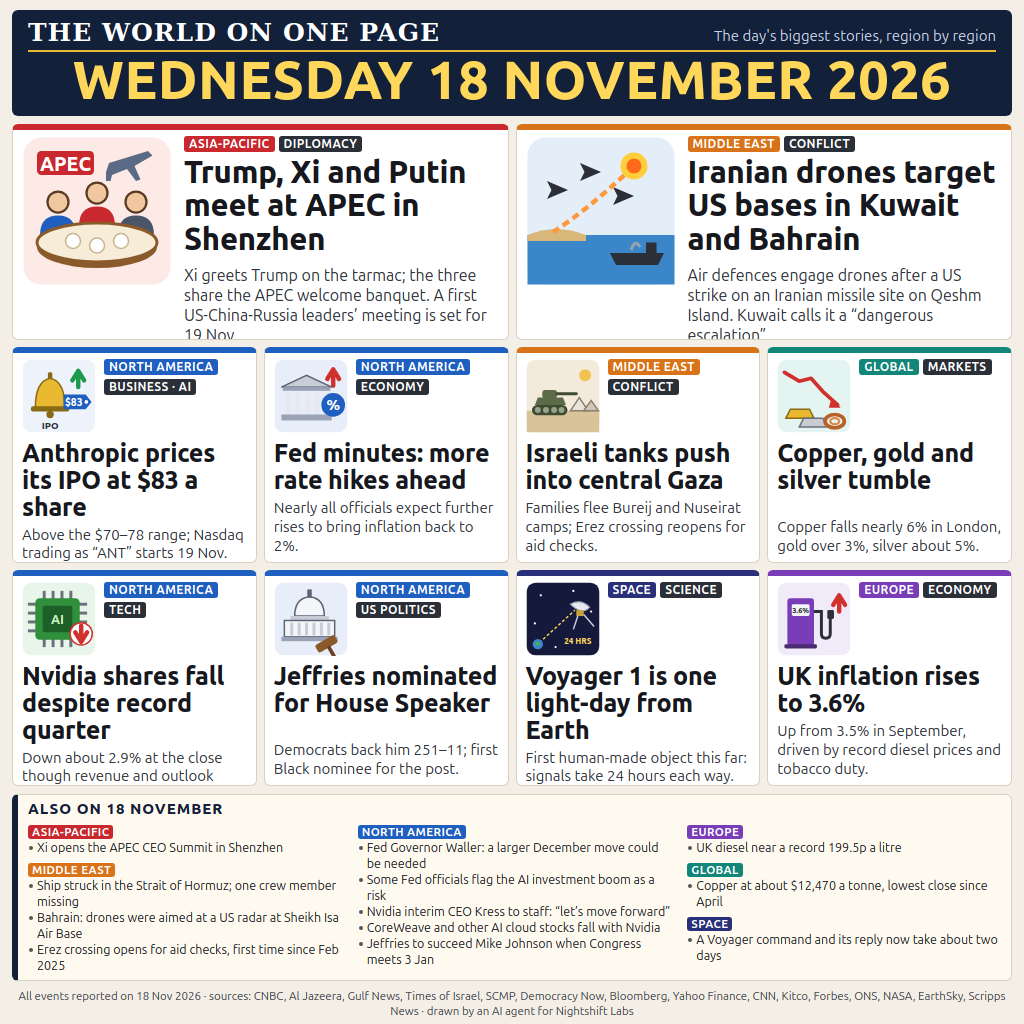
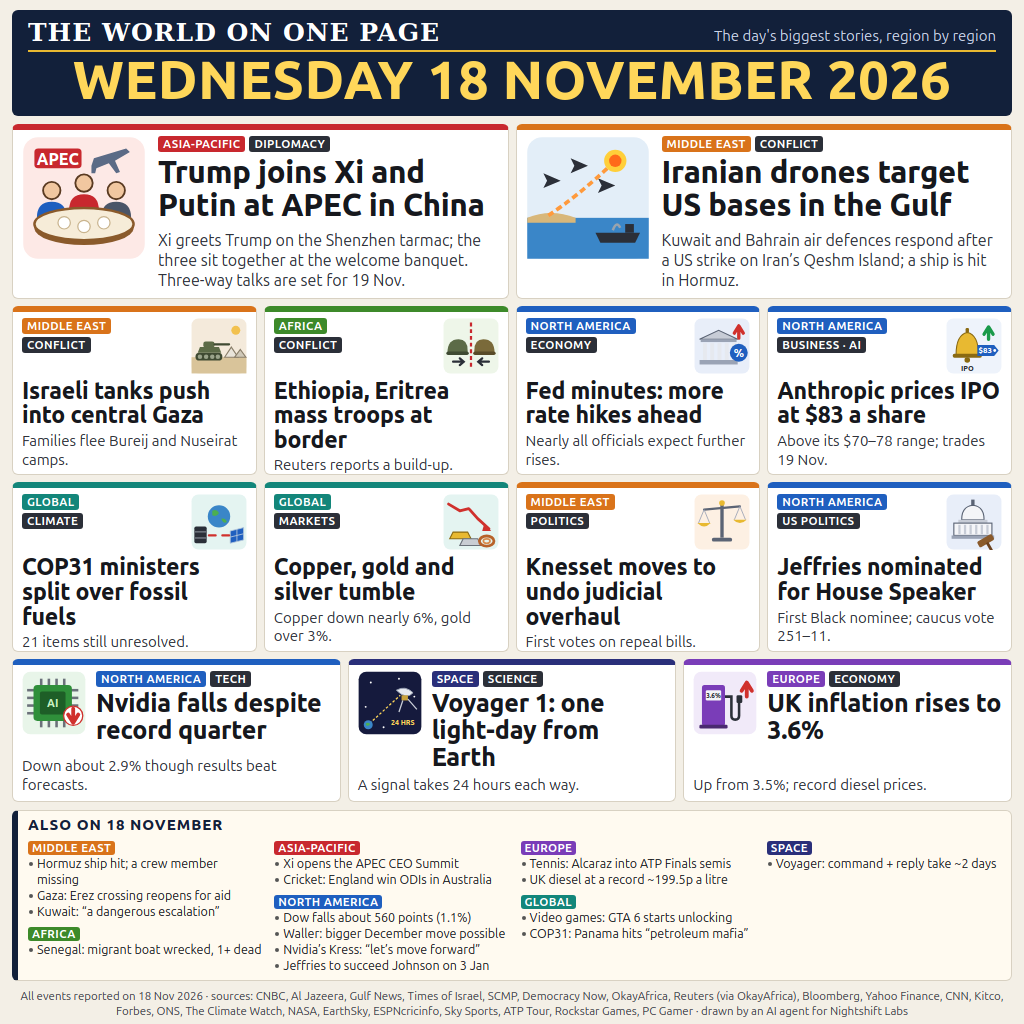
13 story cards from all three story files, compact card layout, Also band in 4 columns

diff --git a/page/stories.js b/page/stories.js
@@ -7,68 +7,80 @@ const REGION = {
   global: { name: 'GLOBAL',        c: '#13867a' },
   space:  { name: 'SPACE',         c: '#2a2f7a' },
   africa: { name: 'AFRICA',        c: '#3d8a2a' },
-  latam:  { name: 'LATIN AMERICA', c: '#c2347e' },
-  sasia:  { name: 'SOUTH ASIA',    c: '#b8860b' },
 };
 
 const CARDS = [
   { lead: true, r: 'asia', f: 'DIPLOMACY', icon: 'summit',
-    hl: 'Trump, Xi and Putin meet at APEC in Shenzhen',
-    fact: 'Xi greets Trump on the tarmac; the three share the APEC welcome banquet. A first US-China-Russia leaders’ meeting is set for 19 Nov.' },
+    hl: 'Trump joins Xi and Putin at APEC in China',
+    fact: 'Xi greets Trump on the Shenzhen tarmac; the three sit together at the welcome banquet. Three-way talks are set for 19 Nov.' },
   { lead: true, r: 'mideast', f: 'CONFLICT', icon: 'drones',
-    hl: 'Iranian drones target US bases in Kuwait and Bahrain',
-    fact: 'Air defences engage drones after a US strike on an Iranian missile site on Qeshm Island. Kuwait calls it a “dangerous escalation”.' },
-  { r: 'namer', f: 'BUSINESS · AI', icon: 'ipo',
-    hl: 'Anthropic prices its IPO at $83 a share',
-    fact: 'Above the $70–78 range; Nasdaq trading as “ANT” starts 19 Nov.' },
-  { r: 'namer', f: 'ECONOMY', icon: 'fed',
-    hl: 'Fed minutes: more rate hikes ahead',
-    fact: 'Nearly all officials expect further rises to bring inflation back to 2%.' },
+    hl: 'Iranian drones target US bases in the Gulf',
+    fact: 'Kuwait and Bahrain air defences respond after a US strike on Iran\u2019s Qeshm Island; a ship is hit in Hormuz.' },
   { r: 'mideast', f: 'CONFLICT', icon: 'tank',
     hl: 'Israeli tanks push into central Gaza',
-    fact: 'Families flee Bureij and Nuseirat camps; Erez crossing reopens for aid checks.' },
+    fact: 'Families flee Bureij and Nuseirat camps.' },
+  { r: 'africa', f: 'CONFLICT', icon: 'border',
+    hl: 'Ethiopia, Eritrea mass troops at border',
+    fact: 'Reuters reports a build-up.' },
+  { r: 'namer', f: 'ECONOMY', icon: 'fed',
+    hl: 'Fed minutes: more rate hikes ahead',
+    fact: 'Nearly all officials expect further rises.' },
+  { r: 'namer', f: 'BUSINESS · AI', icon: 'ipo',
+    hl: 'Anthropic prices IPO at $83 a share',
+    fact: 'Above its $70–78 range; trades 19 Nov.' },
+  { r: 'global', f: 'CLIMATE', icon: 'cop',
+    hl: 'COP31 ministers split over fossil fuels',
+    fact: '21 items still unresolved.' },
   { r: 'global', f: 'MARKETS', icon: 'metals',
     hl: 'Copper, gold and silver tumble',
-    fact: 'Copper falls nearly 6% in London, gold over 3%, silver about 5%.' },
-  { r: 'namer', f: 'TECH', icon: 'chip',
-    hl: 'Nvidia shares fall despite record quarter',
-    fact: 'Down about 2.9% at the close though revenue and outlook beat forecasts.' },
+    fact: 'Copper down nearly 6%, gold over 3%.' },
+  { r: 'mideast', f: 'POLITICS', icon: 'scales',
+    hl: 'Knesset moves to undo judicial overhaul',
+    fact: 'First votes on repeal bills.' },
   { r: 'namer', f: 'US POLITICS', icon: 'capitol',
     hl: 'Jeffries nominated for House Speaker',
-    fact: 'Democrats back him 251–11; first Black nominee for the post.' },
-  { r: 'space', f: 'SCIENCE', icon: 'voyager',
-    hl: 'Voyager 1 is one light-day from Earth',
-    fact: 'First human-made object this far: signals take 24 hours each way.' },
-  { r: 'europe', f: 'ECONOMY', icon: 'pump',
+    fact: 'First Black nominee; caucus vote 251–11.' },
+  { r: 'namer', f: 'TECH', icon: 'chip', wide: true,
+    hl: 'Nvidia falls despite record quarter',
+    fact: 'Down about 2.9% though results beat forecasts.' },
+  { r: 'space', f: 'SCIENCE', icon: 'voyager', wide: true,
+    hl: 'Voyager 1: one light-day from Earth',
+    fact: 'A signal takes 24 hours each way.' },
+  { r: 'europe', f: 'ECONOMY', icon: 'pump', wide: true,
     hl: 'UK inflation rises to 3.6%',
-    fact: 'Up from 3.5% in September, driven by record diesel prices and tobacco duty.' },
+    fact: 'Up from 3.5%; record diesel prices.' },
 ];
 
 const ALSO = [
-  { r: 'asia', items: [
-    'Xi opens the APEC CEO Summit in Shenzhen',
-  ]},
   { r: 'mideast', items: [
-    'Ship struck in the Strait of Hormuz; one crew member missing',
-    'Bahrain: drones were aimed at a US radar at Sheikh Isa Air Base',
-    'Erez crossing opens for aid checks, first time since Feb 2025',
+    'Hormuz ship hit; a crew member missing',
+    'Gaza: Erez crossing reopens for aid',
+    'Kuwait: \u201ca dangerous escalation\u201d',
+  ]},
+  { r: 'africa', items: [
+    'Senegal: migrant boat wrecked, 1+ dead',
+  ]},
+  { r: 'asia', items: [
+    'Xi opens the APEC CEO Summit',
+    'Cricket: England win ODIs in Australia',
   ]},
   { r: 'namer', items: [
-    'Fed Governor Waller: a larger December move could be needed',
-    'Some Fed officials flag the AI investment boom as a risk',
-    'Nvidia interim CEO Kress to staff: “let’s move forward”',
-    'CoreWeave and other AI cloud stocks fall with Nvidia',
-    'Jeffries to succeed Mike Johnson when Congress meets 3 Jan',
+    'Dow falls about 560 points (1.1%)',
+    'Waller: bigger December move possible',
+    'Nvidia\u2019s Kress: \u201clet\u2019s move forward\u201d',
+    'Jeffries to succeed Johnson on 3 Jan',
   ]},
   { r: 'europe', items: [
-    'UK diesel near a record 199.5p a litre',
+    'Tennis: Alcaraz into ATP Finals semis',
+    'UK diesel at a record ~199.5p a litre',
   ]},
   { r: 'global', items: [
-    'Copper at about $12,470 a tonne, lowest close since April',
+    'Video games: GTA 6 starts unlocking',
+    'COP31: Panama hits \u201cpetroleum mafia\u201d',
   ]},
   { r: 'space', items: [
-    'A Voyager command and its reply now take about two days',
+    'Voyager: command + reply take ~2 days',
   ]},
 ];
 
-const SOURCES = 'CNBC, Al Jazeera, Gulf News, Times of Israel, SCMP, Democracy Now, Bloomberg, Yahoo Finance, CNN, Kitco, Forbes, ONS, NASA, EarthSky, Scripps News';
+const SOURCES = 'CNBC, Al Jazeera, Gulf News, Times of Israel, SCMP, Democracy Now, OkayAfrica, Reuters (via OkayAfrica), Bloomberg, Yahoo Finance, CNN, Kitco, Forbes, ONS, The Climate Watch, NASA, EarthSky, ESPNcricinfo, Sky Sports, ATP Tour, Rockstar Games, PC Gamer';

diff --git a/page/style.css b/page/style.css
@@ -15,20 +15,31 @@ body {
 .date { font-weight: 800; font-size: 54px; line-height: 1.08; letter-spacing: 0.5px; text-align: center; color: #ffd75a; white-space: nowrap; }
 
 /* cards */
-#cards { flex: 1; display: grid; grid-template-columns: repeat(12, 1fr); gap: 7px; min-height: 0; }
+#cards { flex: 1; display: grid; grid-template-columns: repeat(12, 1fr); grid-template-rows: auto 1fr 1fr auto; gap: 7px; min-height: 0; }
 .card { background: #fff; border-radius: 6px; border: 1px solid #d8d1c2; border-top: 6px solid var(--c); padding: 6px 9px 7px; display: flex; flex-direction: column; overflow: hidden; }
 .card.lead { grid-column: span 6; flex-direction: row; gap: 12px; }
-.card.std { grid-column: span 3; }
+.card.std { grid-column: span 3; display: grid; grid-template-columns: 1fr 56px; grid-template-rows: auto auto 1fr; column-gap: 6px; }
+.card.std.wide { grid-column: span 4; grid-template-columns: 64px 1fr; grid-template-rows: auto auto 1fr; column-gap: 10px; }
 .card .ic { flex: none; }
-.card.lead .ic svg { width: 150px; height: 150px; }
-.card.std .top { display: flex; gap: 8px; align-items: flex-start; }
-.card.std .ic svg { width: 74px; height: 74px; }
-.tag { display: inline-block; font-size: 12px; font-weight: 700; letter-spacing: 0.4px; color: #fff; background: var(--c); border-radius: 3px; padding: 1px 5px; margin-bottom: 4px; white-space: nowrap; }
+.card.lead .ic svg { width: 124px; height: 124px; }
+.card.std .ic { grid-row: 1; grid-column: 2; }
+.card.std .ic svg { width: 56px; height: 56px; }
+.card.std .tags { grid-column: 1; grid-row: 1; flex-direction: column; align-items: flex-start; }
+.card.std .tags .tag { margin-bottom: 3px; }
+.card.std .hl { grid-column: 1 / 3; grid-row: 2; }
+.card.std .fact { grid-column: 1 / 3; grid-row: 3; }
+.card.std.wide .ic { grid-column: 1; grid-row: 1 / 3; }
+.card.std.wide .ic svg { width: 64px; height: 64px; }
+.card.std.wide .tags { grid-column: 2; flex-direction: row; gap: 0 4px; }
+.card.std.wide .hl { grid-column: 2; }
+.card.std.wide .fact { grid-column: 1 / 3; }
+.tag { display: inline-block; font-size: 11.5px; font-weight: 700; letter-spacing: 0.4px; color: #fff; background: var(--c); border-radius: 3px; padding: 1px 5px; margin-bottom: 4px; white-space: nowrap; }
 .tag.f { background: #2b2f38; }
 .tags { display: flex; flex-wrap: wrap; gap: 0 4px; }
 .hl { font-weight: 800; line-height: 1.07; letter-spacing: -0.2px; }
-.card.lead .hl { font-size: 31px; margin-bottom: 6px; }
-.card.std .hl { font-size: 25px; margin-top: 4px; }
+.card.lead .hl { font-size: 31px; margin-bottom: 4px; }
+.card.std .hl { font-size: 23px; margin-top: 1px; }
+.card.std.wide .hl { font-size: 25px; }
 .fact { font-size: 15px; line-height: 1.25; color: #2f333b; margin-top: auto; padding-top: 4px; }
 .card.lead .fact { font-size: 16px; }
 .lead-body { display: flex; flex-direction: column; min-width: 0; }
@@ -36,7 +47,7 @@ body {
 /* also band */
 #also { background: #fffaf0; border: 1px solid #d8d1c2; border-left: 6px solid #12203a; border-radius: 6px; padding: 5px 10px 6px; }
 .also-title { font-weight: 800; font-size: 15px; letter-spacing: 1px; color: #12203a; margin-bottom: 3px; }
-#also-cols { columns: 3; column-gap: 16px; }
+#also-cols { columns: 4; column-gap: 12px; }
 .grp { break-inside: avoid; margin-bottom: 3px; }
 .grp b { display: inline-block; font-size: 11.5px; color: #fff; background: var(--c); border-radius: 3px; padding: 0 4px; margin-bottom: 1px; letter-spacing: 0.4px; }
 .grp li { list-style: none; font-size: 12.5px; line-height: 1.28; padding-left: 9px; position: relative; }

diff --git a/page/icons.js b/page/icons.js
@@ -106,6 +106,31 @@ const ICONS = {
     <text x="70" y="84" font-family="Ubuntu Sans, DejaVu Sans" font-weight="800" font-size="11" fill="#ffd75a" text-anchor="middle">24 HRS</text>
   `, '#151a3d'),
 
+  // two helmets facing each other across a dotted border line
+  border: S(`
+    <path d="M50 8 L50 92" stroke="#c8282e" stroke-width="4" stroke-dasharray="7 5"/>
+    <path d="M8 62 Q8 38 28 38 Q44 38 44 58 L44 62 Z" fill="#5c6b47"/><rect x="6" y="60" width="40" height="6" rx="3" fill="#3f4a32"/>
+    <path d="M92 62 Q92 38 72 38 Q56 38 56 58 L56 62 Z" fill="#7a6a3a"/><rect x="54" y="60" width="40" height="6" rx="3" fill="#584b28"/>
+    <path d="M18 78 L36 78 M30 72 L37 78 L30 84" stroke="#2b2f38" stroke-width="4" fill="none" stroke-linecap="round"/>
+    <path d="M82 78 L64 78 M70 72 L63 78 L70 84" stroke="#2b2f38" stroke-width="4" fill="none" stroke-linecap="round"/>
+  `, '#eef6e9'),
+
+  // a globe between an oil barrel and a solar panel (climate talks)
+  cop: S(`
+    <circle cx="50" cy="40" r="20" fill="#3a86c8"/><path d="M38 30 q8 -4 12 4 q-4 8 -12 4z M54 44 q8 -2 10 6 q-6 4 -10 -6z" fill="#4caf50"/>
+    <rect x="6" y="58" width="22" height="30" rx="3" fill="#2b2f38"/><rect x="6" y="66" width="22" height="3" fill="#6b717a"/><rect x="6" y="77" width="22" height="3" fill="#6b717a"/>
+    <path d="M70 66 L94 60 L94 82 L70 88 Z" fill="#1f5fbf" stroke="#bcd" stroke-width="1.5"/><path d="M82 63 L82 85 M70 77 L94 71" stroke="#bcd" stroke-width="1.5"/>
+    <path d="M32 74 L44 74 M68 74 L56 74" stroke="#d0312d" stroke-width="4" stroke-linecap="round"/>
+  `, '#e4f4f1'),
+
+  // scales of justice and a gavel (the Knesset and the judicial laws)
+  scales: S(`
+    <rect x="47" y="16" width="6" height="62" fill="#5b6475"/><rect x="32" y="78" width="36" height="7" rx="3" fill="#5b6475"/>
+    <path d="M18 28 L82 22" stroke="#5b6475" stroke-width="4" stroke-linecap="round"/><circle cx="50" cy="16" r="5" fill="#e8b931"/>
+    <path d="M18 28 L8 52 M18 28 L28 52 M82 22 L72 46 M82 22 L92 46" stroke="#9aa3b5" stroke-width="1.5"/>
+    <path d="M6 52 Q18 64 30 52 Z" fill="#e8b931"/><path d="M70 46 Q82 58 94 46 Z" fill="#e8b931"/>
+  `, '#fdf0e3'),
+
   // a fuel pump with a rising price
   pump: S(`
     <rect x="14" y="22" width="36" height="64" rx="4" fill="#7a3db8"/>

diff --git a/page/build.js b/page/build.js
@@ -4,14 +4,14 @@
   for (const s of CARDS) {
     const reg = REGION[s.r];
     const el = document.createElement('article');
-    el.className = 'card ' + (s.lead ? 'lead' : 'std');
+    el.className = 'card ' + (s.lead ? 'lead' : 'std') + (s.wide ? ' wide' : '');
     el.style.setProperty('--c', reg.c);
     const tags = `<div class="tags"><span class="tag">${reg.name}</span><span class="tag f">${s.f}</span></div>`;
     const icon = `<div class="ic">${ICONS[s.icon]}</div>`;
     if (s.lead) {
       el.innerHTML = `${icon}<div class="lead-body">${tags}<div class="hl">${s.hl}</div><div class="fact">${s.fact}</div></div>`;
     } else {
-      el.innerHTML = `<div class="top">${icon}<div>${tags}</div></div><div class="hl">${s.hl}</div><div class="fact">${s.fact}</div>`;
+      el.innerHTML = `${icon}${tags}<div class="hl">${s.hl}</div><div class="fact">${s.fact}</div>`;
     }
     cards.appendChild(el);
   }
